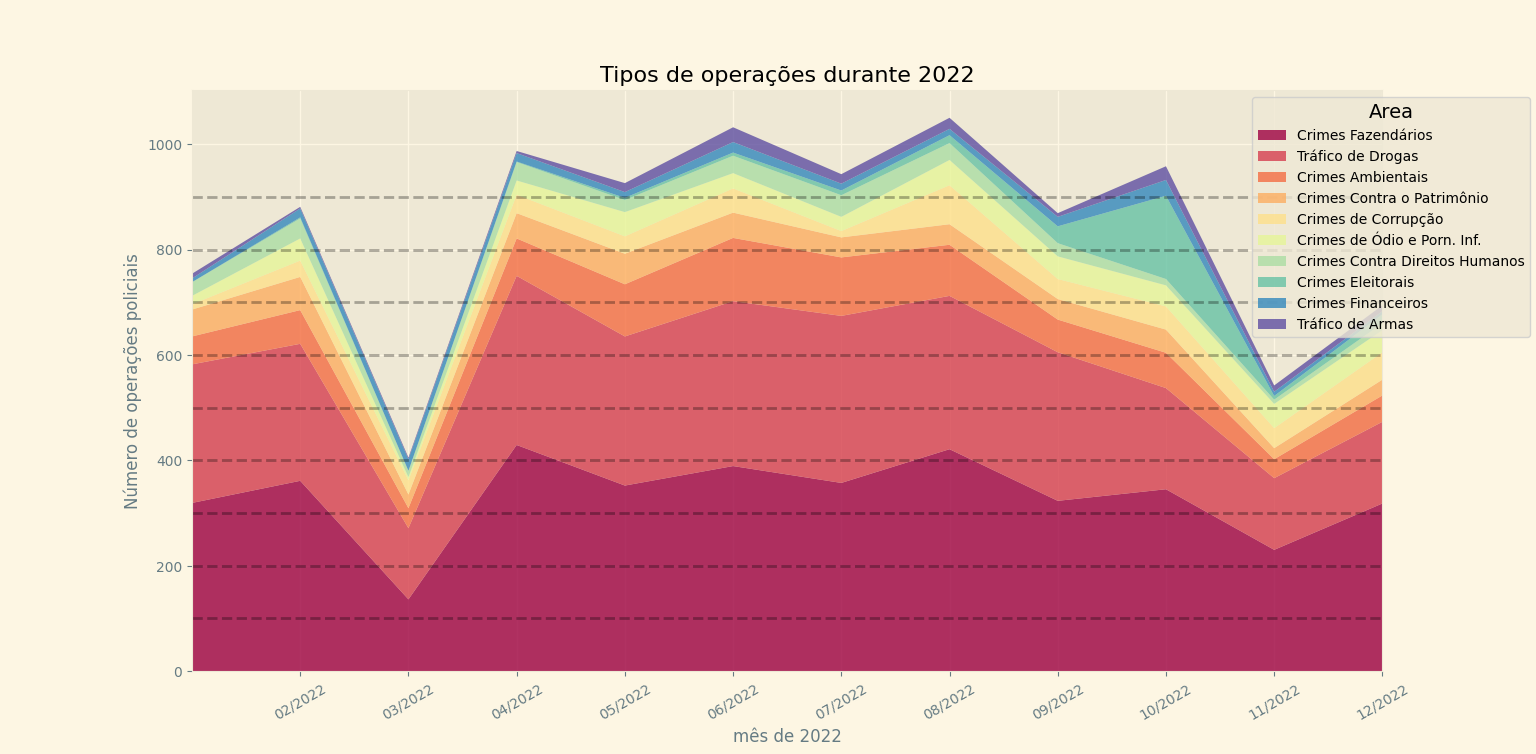
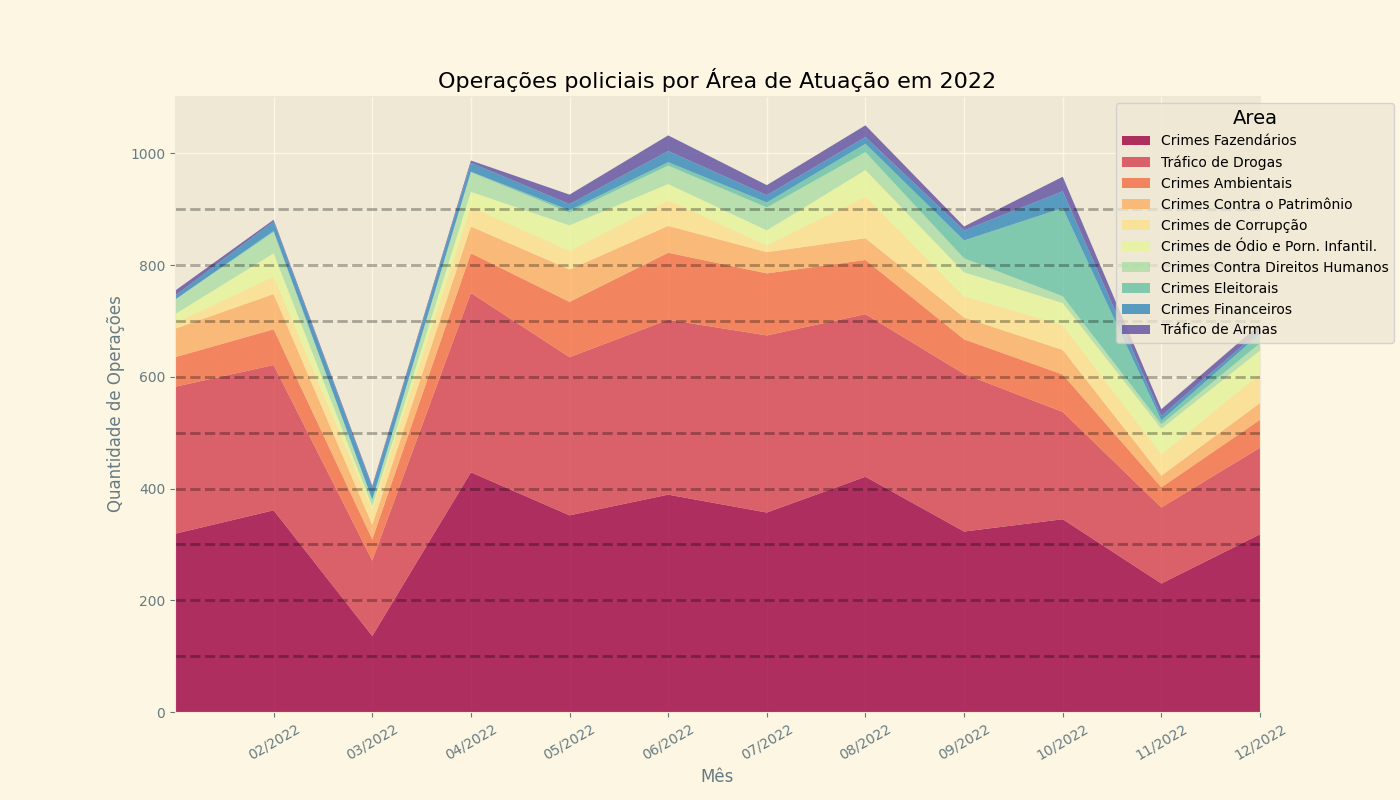
Arrumando html e começando unitest

diff --git a/pages/gustavo.html b/pages/gustavo.html
@@ -31,7 +31,8 @@
         <hr/>
 
         <p class="texto_explic">
-            blablabla
+            O gráfico abaixo busca mostrar ao mesmo tempo, a área de maior atuação das operações policiais em 2022 e também sua frequência
+            ao longo do ano por meio de um <i>stackplot</i> (assim chamado pelo matplotlib).
         </p>
 
         <div class="explic_graph">
@@ -39,10 +40,10 @@
         </div>
 
         <p class="texto_explic">
-            Imaginei que os estados do Rio de Janeiro e São Paulo teriam maior apreensão, já que são os maiores estados (e os que possuem 
-            as maiores milícias do Brasil), porém, na verdade não. Os dois maiores são, curiosamente, os estados da Bahia e de Roraima. Logo em
-            seguida vem Rio de Janeiro e São Paulo, junto com o Paraná. Foi um pouco inesperado, mas quase sempre minhas suposições acabam sendo
-            incorretas.
+            Eu já imaginava que houvesse uma discrepância no gráfico, mas não esperava que a frequência de operações contra crimes fazendários fosse 
+            maior do que o combate ao tráfico de drogas. Embora seja interessante observar a queda brusca nas operações do mês de março, não foi possível
+            encontrar motivos para isso e em fontes externas, e como os dados analizados no trabalho contemplam apenas o ano de 2022 é difícil notar qualquer 
+            padrão.  
         </p>
     </div>
 

diff --git a/gustavo.py b/gustavo.py
@@ -24,9 +24,10 @@ def make_gustavo_plot(df):
 
     #Deixando mais curtos os títulos para que a legenda seja mais legível
     df_copia["Area"] = df_copia["Area"].replace({"Crimes Ambientais e Contra o Patrimônio Cultural": "Crimes Ambientais",
-                                                 "Crimes de Ódio e Pornografia Infantil": "Crimes de Ódio e Porn. Inf."})
+                                                 "Crimes de Ódio e Pornografia Infantil": "Crimes de Ódio e Porn. Infantil"})
     
     df_copia["Mes"] = pd.to_datetime(df_copia['Data da Deflagracao']).dt.strftime('%m/%Y')
+    #TODO remover a mensagem de aviso q isso aqui tá dando
 
     # Usado para saber as áreas de atuação das operações mais frequêntes
     contagem_area = df_copia["Area"].value_counts().index
@@ -47,15 +48,15 @@ def make_gustavo_plot(df):
     plt.stackplot(grouped.columns, grouped.values, labels=grouped.index, alpha=0.8, colors=colors)
     plt.xticks(range(1, 13), rotation=30)
     plt.xlim(grouped.columns.min(), grouped.columns.max())
-    plt.xlabel('mês de 2022')
+    plt.xlabel('Mês')
 
-    plt.ylabel('Número de operações policiais')
+    plt.ylabel("Quantidade de Operações")
     ax = plt.gca()
     y_intervals = [100, 200, 300, 400, 500, 600, 700, 800, 900]  # Define as quantidades das linhas que cruzam o gráfico
     for y in y_intervals:
         ax.axhline(y=y, color='black', linestyle='--', alpha=0.3)
     
-    plt.title('Tipos de operações durante 2022')
+    plt.title("Operações policiais por Área de Atuação em 2022")
     plt.legend(title='Area', title_fontsize='14', loc='upper right', bbox_to_anchor=(1.13, 1))
     plt.show()
 

diff --git a/unittest.py b/unittest.py
@@ -1,0 +1,3 @@
+import unittest
+import pandas as pd
+import pandas.testing as pd_testing
